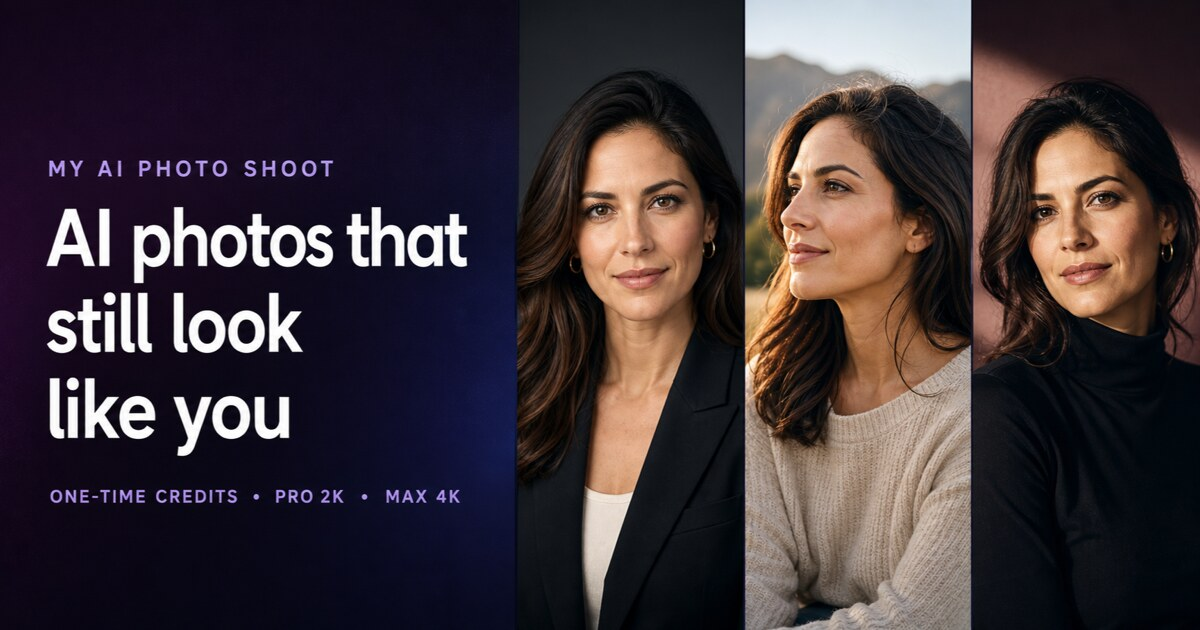
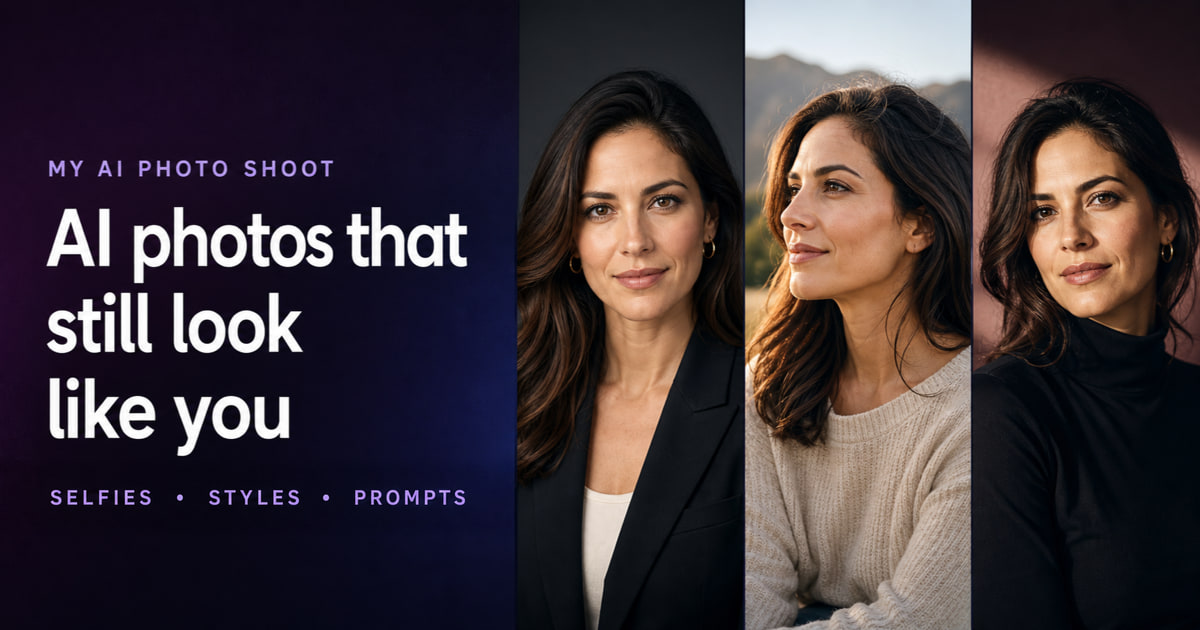
Make social previews evergreen

Changed region(s): [[0.0308, 0.754, 0.4008, 0.8143]]

diff --git a/src/lib/usecase-seo.ts b/src/lib/usecase-seo.ts
@@ -16,6 +16,7 @@ const STALE_PRICE_CLAIM_PATTERN = new RegExp(
   'gi'
 );
 const NO_SUBSCRIPTION_REQUIRED_PATTERN = /(?:\b(?:with\s+)?no subscription required\b|\bsin suscripci[oó]n(?: obligatoria| requerida)?\b|\bkein(?:e|es)? abonnement erforderlich\b|\baucun abonnement (?:n['’]est )?requis\b|\bподписка не требуется\b|无需订阅|サブスクリプション不要|सदस्यता की आवश्यकता नहीं|لا يلزم اشتراك)/giu;
+const SOCIAL_COMMERCIAL_CLAIM_PATTERN = /(?:[$€£¥₹₽]\s*\d|\d+\s*cr\b|\b(?:credits?|pro|max|subscriptions?|subs?|pay[\s-]*as[\s-]*you[\s-]*go|plans?|pricing|prices?|resolution|[1248]k)\b|cr[eé]dit(?:s|os)?|kredit(?:e|en|s)?|abonnement|suscripci[oó]n|forfait|tarif|кредит|подписк|тариф|积分|订阅|套餐|クレジット|サブスクリプション|プラン|क्रेडिट|सदस्यता|प्लान|أرصدة|رصيد|اشتراك|خطة|الدقة|auflösung|r[ée]solution|resoluci[oó]n|разрешени|分辨率|画质|解像度|रिज़ॉल्यूशन)/iu;
 const PRICE_BASED_TITLE_SUFFIX_PATTERN = new RegExp(
   String.raw`\s*(?:[|–—-]\s*)?(?:(?:from|starting(?:\s+at)?|starts?\s+at|only)\s*)?${STALE_DOLLAR_PRICE_PATTERN_SOURCE}(?:\s*(?:each|per\s+(?:photo|image|model|generation)))?(?:\s*[|–—-]\s*My AI Photo Shoot)?\s*$`,
   'i'
@@ -121,7 +122,10 @@ export async function generateUseCaseMetadata(slug: string, locale: string): Pro
       robots: { index: false, follow: false },
     };
   }
-  const tUseCase = await getTranslations({ locale, namespace: 'useCase' });
+  const [tUseCase, tHome] = await Promise.all([
+    getTranslations({ locale, namespace: 'useCase' }),
+    getTranslations({ locale, namespace: 'pageCopy.home' }),
+  ]);
 
   const baseTitle = normalizeUseCaseTitle(String(uc.meta_title || uc.title || ''));
   const title = buildUseCaseTitle(baseTitle);
@@ -133,10 +137,14 @@ export async function generateUseCaseMetadata(slug: string, locale: string): Pro
     normalizedDescription,
     tUseCase('offerSummary')
   );
+  const socialDescription = buildUseCaseSocialDescription(
+    normalizedDescription,
+    tHome('shareDescription')
+  );
 
   const url = canonicalUrl(locale, `/use-cases/${slug}/`);
   const imageUrl = (Array.isArray(uc.featured_image_urls) && uc.featured_image_urls[0])
-    || '/og-image-v2.jpg';
+    || '/og-image-v2.jpg?v=3';
 
   return {
     title: { absolute: title || 'Use Case | My AI Photo Shoot' },
@@ -144,7 +152,7 @@ export async function generateUseCaseMetadata(slug: string, locale: string): Pro
     alternates: buildAlternates(locale, `/use-cases/${slug}/`, locales),
     openGraph: {
       title,
-      description,
+      description: socialDescription,
       url,
       siteName: 'My AI Photo Shoot',
       type: 'website',
@@ -155,10 +163,26 @@ export async function generateUseCaseMetadata(slug: string, locale: string): Pro
     twitter: {
       card: 'summary_large_image',
       title,
-      description,
+      description: socialDescription,
       images: [{ url: imageUrl, alt: uc.title || title }],
     },
   };
+}
+
+function buildUseCaseSocialDescription(description: string, fallback: string): string {
+  const sentences = description
+    .match(/[^!?。！？]*?(?:[!?。！？]+|\.(?=\s|$)|$)/gu)
+    ?.map((sentence) => sentence.trim())
+    .filter(Boolean) || [];
+  const evergreenDescription = tidyMetaText(
+    sentences
+      .filter((sentence) => !SOCIAL_COMMERCIAL_CLAIM_PATTERN.test(sentence))
+      .join(' ')
+  );
+  return truncateAtWord(
+    evergreenDescription || tidyMetaText(fallback),
+    MAX_USE_CASE_DESCRIPTION_LENGTH
+  );
 }
 
 function normalizeUseCaseTitle(value: string): string {

diff --git a/src/app/page.tsx b/src/app/page.tsx
@@ -32,11 +32,23 @@ export default async function Home() {
 
 export async function generateMetadata(): Promise<Metadata> {
   const messages = await loadMessages('en');
-  type HomePageCopy = { pageCopy?: { home?: { metaDescription?: string; metaTitle?: string } } };
+  type HomePageCopy = {
+    pageCopy?: {
+      home?: {
+        metaDescription?: string;
+        metaTitle?: string;
+        shareDescription?: string;
+        shareTitle?: string;
+      };
+    };
+  };
   const pageCopy = (messages as HomePageCopy).pageCopy?.home;
   const description = pageCopy?.metaDescription
     || 'Create realistic AI headshots and portraits from selfies. Start with one-time credits, or unlock personal AI training and up to 4K with Pro or Max.';
   const title = pageCopy?.metaTitle || 'AI Headshot Generator | My AI Photo Shoot';
+  const shareTitle = pageCopy?.shareTitle || 'AI Photos That Still Look Like You';
+  const shareDescription = pageCopy?.shareDescription
+    || 'Create realistic AI photos from selfies. Explore ready-made styles or train a personal AI model, then turn any prompt into photos that still look like you.';
   return {
     title: { absolute: title }, // concise HTML title
     description,
@@ -53,14 +65,13 @@ export async function generateMetadata(): Promise<Metadata> {
       },
     },
     openGraph: {
-      // Keep richer OG title for social sharing
-      title: 'AI Headshot Generator - Realistic Profile Photos From Selfies',
-      description,
+      title: shareTitle,
+      description: shareDescription,
       url: 'https://myaiphotoshoot.com/',
       siteName: 'My AI Photo Shoot',
       images: [
         {
-          url: '/og-image-v2.jpg',
+          url: '/og-image-v2.jpg?v=3',
           width: 1200,
           height: 630,
           alt: 'My AI Photo Shoot AI headshot examples',
@@ -72,9 +83,9 @@ export async function generateMetadata(): Promise<Metadata> {
     },
     twitter: {
       card: 'summary_large_image',
-      title: 'AI Headshot Generator - Realistic Profile Photos From Selfies',
-      description,
-      images: [{ url: '/og-image-v2.jpg', alt: 'My AI Photo Shoot AI headshot examples' }],
+      title: shareTitle,
+      description: shareDescription,
+      images: [{ url: '/og-image-v2.jpg?v=3', alt: 'My AI Photo Shoot AI headshot examples' }],
     },
   };
 }

diff --git a/src/app/[locale]/page.tsx b/src/app/[locale]/page.tsx
@@ -40,6 +40,8 @@ export async function generateMetadata({ params }: Props): Promise<Metadata> {
       home?: {
         metaDescription?: string;
         metaTitle?: string;
+        shareDescription?: string;
+        shareTitle?: string;
       };
     };
   };
@@ -47,6 +49,9 @@ export async function generateMetadata({ params }: Props): Promise<Metadata> {
   const title = m.pageCopy?.home?.metaTitle || 'AI Headshot Generator | My AI Photo Shoot';
   const description = m.pageCopy?.home?.metaDescription
     || 'Create realistic AI headshots and portraits from selfies. Start with one-time credits, or unlock personal AI training and up to 4K with Pro or Max.';
+  const shareTitle = m.pageCopy?.home?.shareTitle || 'AI Photos That Still Look Like You';
+  const shareDescription = m.pageCopy?.home?.shareDescription
+    || 'Create realistic AI photos from selfies. Explore ready-made styles or train a personal AI model, then turn any prompt into photos that still look like you.';
   return {
     title: { absolute: title }, // concise HTML title
     description,
@@ -63,18 +68,17 @@ export async function generateMetadata({ params }: Props): Promise<Metadata> {
       },
     },
     openGraph: {
-      // Keep richer OG title for social sharing
-      title,
-      description,
+      title: shareTitle,
+      description: shareDescription,
       url: canonicalUrl(locale, '/'),
       siteName: 'My AI Photo Shoot',
       type: 'website',
       images: [
         {
-          url: '/og-image-v2.jpg',
+          url: '/og-image-v2.jpg?v=3',
           width: 1200,
           height: 630,
-          alt: title,
+          alt: shareTitle,
         },
       ],
       locale: ogLocaleFromAppLocale(locale),
@@ -82,9 +86,9 @@ export async function generateMetadata({ params }: Props): Promise<Metadata> {
     },
     twitter: {
       card: 'summary_large_image',
-      title,
-      description,
-      images: [{ url: '/og-image-v2.jpg', alt: title }],
+      title: shareTitle,
+      description: shareDescription,
+      images: [{ url: '/og-image-v2.jpg?v=3', alt: shareTitle }],
     },
   };
 }

diff --git a/src/app/layout.tsx b/src/app/layout.tsx
@@ -58,13 +58,13 @@ export const metadata: Metadata = {
     ],
   },
   openGraph: {
-    title: "AI Headshot Generator - Realistic Profile Photos From Selfies",
-    description: "Create realistic AI headshots and portraits from selfies. Start with one-time credits, or unlock personal AI training and up to 4K generation with Pro or Max.",
+    title: "AI Photos That Still Look Like You",
+    description: "Create realistic AI photos from selfies. Explore ready-made styles or train a personal AI model, then turn any prompt into photos that still look like you.",
     url: "https://myaiphotoshoot.com",
     siteName: "My AI Photo Shoot",
     images: [
       {
-        url: "/og-image-v2.jpg",
+        url: "/og-image-v2.jpg?v=3",
         width: 1200,
         height: 630,
         alt: "My AI Photo Shoot AI headshot examples",
@@ -75,9 +75,9 @@ export const metadata: Metadata = {
   },
   twitter: {
     card: "summary_large_image",
-    title: "AI Headshot Generator - Realistic Profile Photos From Selfies",
-    description: "Create realistic AI headshots and portraits from selfies. Start with one-time credits, or unlock personal AI training and up to 4K generation with Pro or Max.",
-    images: [{ url: "/og-image-v2.jpg", alt: "My AI Photo Shoot AI headshot examples" }],
+    title: "AI Photos That Still Look Like You",
+    description: "Create realistic AI photos from selfies. Explore ready-made styles or train a personal AI model, then turn any prompt into photos that still look like you.",
+    images: [{ url: "/og-image-v2.jpg?v=3", alt: "My AI Photo Shoot AI headshot examples" }],
   },
 };
 

diff --git a/src/app/[locale]/models/page.tsx b/src/app/[locale]/models/page.tsx
@@ -13,6 +13,8 @@ export async function generateMetadata({ params }: Props): Promise<Metadata> {
   const t = await getTranslations({ locale, namespace: 'models.meta' });
   const title = t('title');
   const description = t('description');
+  const shareTitle = t('shareTitle');
+  const shareDescription = t('shareDescription');
 
   return {
     title: { absolute: `${title} | My AI Photo Shoot` },
@@ -30,14 +32,14 @@ export async function generateMetadata({ params }: Props): Promise<Metadata> {
       },
     },
     openGraph: {
-      title,
-      description,
+      title: shareTitle,
+      description: shareDescription,
       url: canonicalUrl(locale, '/models/'),
       siteName: 'My AI Photo Shoot',
       type: 'website',
       images: [
         {
-          url: '/og-image-v2.jpg',
+          url: '/og-image-v2.jpg?v=3',
           width: 1200,
           height: 630,
           alt: 'My AI Photo Shoot AI photo model examples',
@@ -48,9 +50,9 @@ export async function generateMetadata({ params }: Props): Promise<Metadata> {
     },
     twitter: {
       card: 'summary_large_image',
-      title,
-      description,
-      images: [{ url: '/og-image-v2.jpg', alt: title }],
+      title: shareTitle,
+      description: shareDescription,
+      images: [{ url: '/og-image-v2.jpg?v=3', alt: shareTitle }],
     },
   };
 }

diff --git a/src/app/models/page.tsx b/src/app/models/page.tsx
@@ -8,6 +8,8 @@ export async function generateMetadata(): Promise<Metadata> {
   const t = await getTranslations({ locale: defaultLocale, namespace: 'models.meta' });
   const title = t('title');
   const description = t('description');
+  const shareTitle = t('shareTitle');
+  const shareDescription = t('shareDescription');
 
   return {
     title: { absolute: `${title} | My AI Photo Shoot` },
@@ -25,14 +27,14 @@ export async function generateMetadata(): Promise<Metadata> {
       },
     },
     openGraph: {
-      title,
-      description,
+      title: shareTitle,
+      description: shareDescription,
       url: canonicalUrl(defaultLocale, '/models/'),
       siteName: 'My AI Photo Shoot',
       type: 'website',
       images: [
         {
-          url: '/og-image-v2.jpg',
+          url: '/og-image-v2.jpg?v=3',
           width: 1200,
           height: 630,
           alt: 'My AI Photo Shoot AI photo model examples',
@@ -43,9 +45,9 @@ export async function generateMetadata(): Promise<Metadata> {
     },
     twitter: {
       card: 'summary_large_image',
-      title,
-      description,
-      images: [{ url: '/og-image-v2.jpg', alt: title }],
+      title: shareTitle,
+      description: shareDescription,
+      images: [{ url: '/og-image-v2.jpg?v=3', alt: shareTitle }],
     },
   };
 }

diff --git a/src/app/blog/[slug]/page.tsx b/src/app/blog/[slug]/page.tsx
@@ -104,12 +104,12 @@ export async function generateMetadata({ params }: BlogPostPageProps): Promise<M
     const url = `${BASE_URL}${localePath(defaultLocale, `/blog/${slug}/`)}`;
     const imageUrl = typeof post.featured_image_url === 'string'
       ? post.featured_image_url
-      : 'https://myaiphotoshoot.com/og-image-v2.jpg';
+      : 'https://myaiphotoshoot.com/og-image-v2.jpg?v=3';
 
     // Infer MIME type from URL extension for better OG accuracy
     const inferMimeFromUrl = (url: string | null | undefined): string | null => {
       if (!url || typeof url !== 'string') return null;
-      const lower = url.toLowerCase();
+      const lower = url.toLowerCase().split(/[?#]/, 1)[0];
       if (lower.endsWith('.jpg') || lower.endsWith('.jpeg')) return 'image/jpeg';
       if (lower.endsWith('.png')) return 'image/png';
       if (lower.endsWith('.webp')) return 'image/webp';

diff --git a/src/app/[locale]/blog/[slug]/page.tsx b/src/app/[locale]/blog/[slug]/page.tsx
@@ -128,12 +128,12 @@ export async function generateMetadata({ params }: BlogPostPageProps): Promise<M
     const url = `${BASE_URL}${localePath(locale, currentPath)}`;
     const imageUrl = typeof post.featured_image_url === 'string'
       ? post.featured_image_url
-      : 'https://myaiphotoshoot.com/og-image-v2.jpg';
+      : 'https://myaiphotoshoot.com/og-image-v2.jpg?v=3';
 
     // Infer MIME type from URL extension for better OG accuracy
     const inferMimeFromUrl = (url: string | null | undefined): string | null => {
       if (!url || typeof url !== 'string') return null;
-      const lower = url.toLowerCase();
+      const lower = url.toLowerCase().split(/[?#]/, 1)[0];
       if (lower.endsWith('.jpg') || lower.endsWith('.jpeg')) return 'image/jpeg';
       if (lower.endsWith('.png')) return 'image/png';
       if (lower.endsWith('.webp')) return 'image/webp';

diff --git a/src/app/presets/page.tsx b/src/app/presets/page.tsx
@@ -28,13 +28,13 @@ export async function generateMetadata(): Promise<Metadata> {
       type: 'website',
       locale: ogLocaleFromAppLocale(defaultLocale),
       alternateLocale: ogAlternateLocales(locales, defaultLocale),
-      images: [{ url: '/og-image-v2.jpg', width: 1200, height: 630, alt: AI_PRESETS_INDEX_TITLE }],
+      images: [{ url: '/og-image-v2.jpg?v=3', width: 1200, height: 630, alt: AI_PRESETS_INDEX_TITLE }],
     },
     twitter: {
       card: 'summary_large_image',
       title: AI_PRESETS_INDEX_TITLE,
       description: AI_PRESETS_INDEX_DESCRIPTION,
-      images: [{ url: '/og-image-v2.jpg', alt: AI_PRESETS_INDEX_TITLE }],
+      images: [{ url: '/og-image-v2.jpg?v=3', alt: AI_PRESETS_INDEX_TITLE }],
     },
   };
 }

diff --git a/src/app/[locale]/blog/page.tsx b/src/app/[locale]/blog/page.tsx
@@ -82,13 +82,13 @@ export async function generateMetadata({ params }: Props): Promise<Metadata> {
         type: 'website',
         locale: ogLocaleFromAppLocale(locale),
         alternateLocale: ogAlternateLocales(locales, locale),
-        images: [{ url: '/og-image-v2.jpg', width: 1200, height: 630, alt: socialTitle }],
+        images: [{ url: '/og-image-v2.jpg?v=3', width: 1200, height: 630, alt: socialTitle }],
       },
       twitter: {
         card: 'summary_large_image',
         title: socialTitle,
         description,
-        images: [{ url: '/og-image-v2.jpg', alt: socialTitle }],
+        images: [{ url: '/og-image-v2.jpg?v=3', alt: socialTitle }],
       },
     };
   } catch {

diff --git a/src/app/blog/page.tsx b/src/app/blog/page.tsx
@@ -70,13 +70,13 @@ export async function generateMetadata(): Promise<Metadata> {
         type: 'website',
         locale: ogLocaleFromAppLocale(defaultLocale),
         alternateLocale: ogAlternateLocales(locales, defaultLocale),
-        images: [{ url: '/og-image-v2.jpg', width: 1200, height: 630, alt: socialTitle }],
+        images: [{ url: '/og-image-v2.jpg?v=3', width: 1200, height: 630, alt: socialTitle }],
       },
       twitter: {
         card: 'summary_large_image',
         title: socialTitle,
         description,
-        images: [{ url: '/og-image-v2.jpg', alt: socialTitle }],
+        images: [{ url: '/og-image-v2.jpg?v=3', alt: socialTitle }],
       },
     };
   } catch {

diff --git a/src/app/[locale]/use-cases/page.tsx b/src/app/[locale]/use-cases/page.tsx
@@ -62,13 +62,13 @@ export async function generateMetadata({ params }: PageProps): Promise<Metadata>
       type: 'website',
       locale: ogLocaleFromAppLocale(locale),
       alternateLocale: ogAlternateLocales(locales, locale),
-      images: [{ url: '/og-image-v2.jpg', width: 1200, height: 630, alt: socialTitle }],
+      images: [{ url: '/og-image-v2.jpg?v=3', width: 1200, height: 630, alt: socialTitle }],
     },
     twitter: {
       card: 'summary_large_image',
       title: socialTitle,
       description,
-      images: [{ url: '/og-image-v2.jpg', alt: socialTitle }],
+      images: [{ url: '/og-image-v2.jpg?v=3', alt: socialTitle }],
     },
   };
 }
